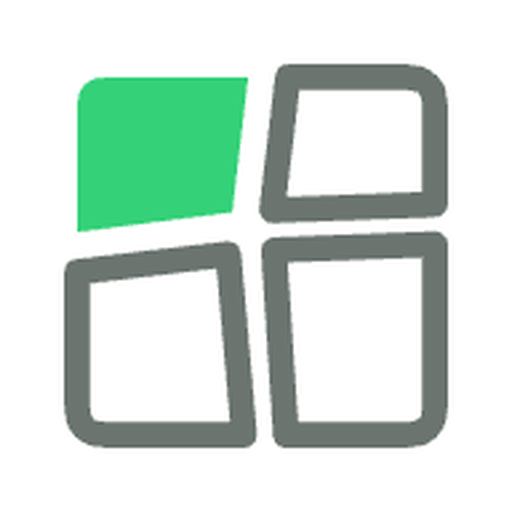
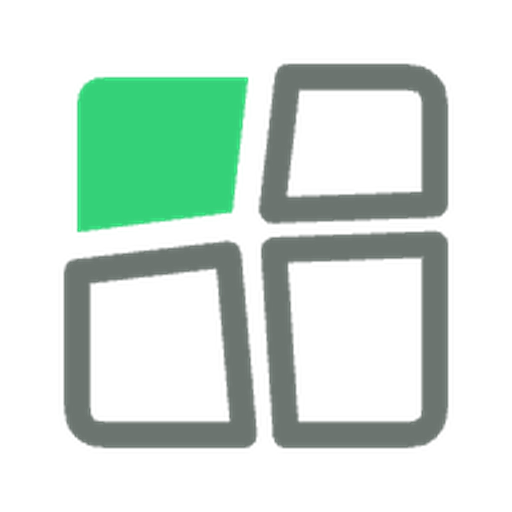
fix(marca): ícone com fundo transparente
Os PNGs saíam com fundo branco chapado, o que aparecia como quadrado branco na
aba do navegador e em qualquer tema escuro. Agora o fundo é transparente —
conferido: alfa 0 nos cantos, nos dois tamanhos.

Com isso o 512 deixa de ser declarado "maskable": o launcher do Android recorta
o ícone maskable numa máscara e preenche o fundo por conta própria, então um
PNG transparente ali sairia com a marca cortada. Fica só "any", que é o que a
transparência pede.

diff --git a/index.html b/index.html
@@ -15,10 +15,10 @@
 <meta name="apple-mobile-web-app-capable" content="yes">
 <meta name="apple-mobile-web-app-status-bar-style" content="default">
 <meta name="apple-mobile-web-app-title" content="Agracta">
-<link rel="icon" type="image/png" sizes="192x192" href="icon-192.png?v=2">
-<link rel="icon" type="image/png" sizes="512x512" href="icon-512.png?v=2">
-<link rel="apple-touch-icon" href="icon-192.png?v=2">
-<script>if('serviceWorker' in navigator){window.addEventListener('load',function(){navigator.serviceWorker.register('sw.js?v=75').catch(function(){});});}</script>
+<link rel="icon" type="image/png" sizes="192x192" href="icon-192.png?v=3">
+<link rel="icon" type="image/png" sizes="512x512" href="icon-512.png?v=3">
+<link rel="apple-touch-icon" href="icon-192.png?v=3">
+<script>if('serviceWorker' in navigator){window.addEventListener('load',function(){navigator.serviceWorker.register('sw.js?v=76').catch(function(){});});}</script>
 </head>
 <body>
 <div class="top-bar">
@@ -105,7 +105,7 @@
 <script src="vendor/xlsx.full.min.js"></script>
 <script src="vendor/supabase.js"></script>
 <script>window.LF=window.L;/* Leaflet alias: o app reusa 'L' para rótulos */</script>
-<script src="app.js?v=21"></script>
+<script src="app.js?v=22"></script>
 <script src="vendor/firebase-app-compat.js"></script>
 <script src="vendor/firebase-auth-compat.js"></script>
 <script src="vendor/firebase-firestore-compat.js"></script>

diff --git a/sw.js b/sw.js
@@ -2,18 +2,18 @@
    - HTML (navegação): network-first (sempre pega a versão nova online; cache só como reserva offline)
    - Estáticos (vendor, ícones): cache-first
    - Nunca intercepta o proxy NDVI / tiles do satélite / Copernicus */
-var CACHE = 'agracta-app-v92';
+var CACHE = 'agracta-app-v93';
 var PYO_CACHE = 'agracta-pyodide-v1'; /* Pyodide pesado (~115MB) — cache próprio, persiste entre updates do app */
 var ASSETS = [
   './', './index.html',
-  './styles.css?v=11', './app.js?v=21', './mapa-base.jpg',
+  './styles.css?v=11', './app.js?v=22', './mapa-base.jpg',
   './vendor/leaflet.js', './vendor/leaflet.css',
   './vendor/leaflet-rotate.js',
   './vendor/Leaflet.ImageOverlay.Rotated.js',
   './vendor/quadras-default.js', './vendor/biocalc-campo-core.js', './vendor/supabase.js', './vendor/xlsx.full.min.js',
   './vendor/firebase-app-compat.js', './vendor/firebase-auth-compat.js',
   './vendor/firebase-firestore-compat.js', './firebase-config.js', './firebase-sync.js?v=2',
-  './manifest.webmanifest', './icon-192.png?v=2', './icon-512.png?v=2',
+  './manifest.webmanifest', './icon-192.png?v=3', './icon-512.png?v=3',
   /* Núcleo estatístico auditado + as pranchas de figura do relatório */
   './estatistica.js', './croqui.html', './prancha.html',
   /* Shell do BioEstat embutido (estatística). Pyodide pesado fica em cache próprio (runtime, 1º uso). */
